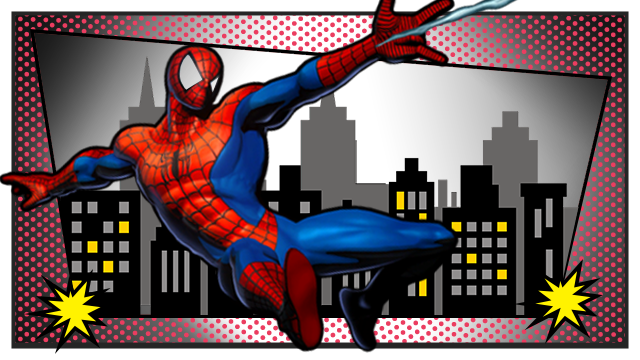
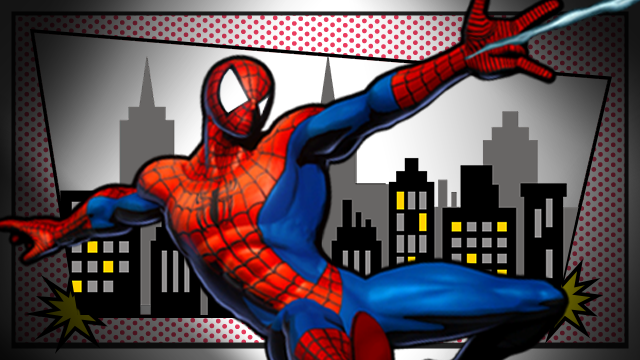
fixed webcam mirror w css

diff --git a/src/containers/Homepage.jsx b/src/containers/Homepage.jsx
@@ -6,22 +6,22 @@ import '../css/homepage.css'
 import '../images/lense.png'
  
 
-const Homepage = ({username}) => {
+const Homepage = ({full_name}) => {
 
 
 	
 	return (
 		<div className="hp-wrapper">
-			<h3 id="username">Welcome {username} to</h3>
+			<h3 id="username">Welcome {full_name} to</h3>
 			<br></br>
 			<h1 id="title">React</h1>
 			<br></br>
 			<h1 id="name" >Booth</h1>
 			<div className="row">
-			<a className="waves-effect waves-light btn blue-grey darken-2" href="/gallery" style={{marginLeft: "20px"}} ><i className="material-icons left">photo_library</i>Gallery</a>
+			<a id="button-image" className="waves-effect waves-light btn blue-grey darken-2" href="/gallery" style={{marginLeft: "20px"}} ><i className="material-icons left">photo_library</i>Gallery</a>
 			</div>
 			<div className="row">
-			<a className="waves-effect waves-light btn  black" href="/photobooth"><i className="material-icons left">camera_roll</i>Take photos</a>
+			<a id="gallery-button"className="waves-effect waves-light btn  black" href="/photobooth"><i className="material-icons left">camera_roll</i>Take photos</a>
 			</div>
 		</div>
 	)

diff --git a/src/components/SubmitRender.js b/src/components/SubmitRender.js
@@ -77,19 +77,19 @@ class SubmitRender extends React.Component {
 			
 				<div className="captureFrame" >
 					<div className="image1">
-						<img id="image1" alt="image1" src={imageData[0]}/>
+						<img id="image1" className="rotate" alt="image1" src={imageData[0]}/>
 						<img id="frame1" alt="frame1" src={frame[0]} />
 					</div>
 					<div className="image2">
-						 <img id="image2" alt="image2" src={imageData[1]}/>
+						 <img id="image2" className="rotate" alt="image2" src={imageData[1]}/>
 						 <img id="frame2" alt="frame2" src={frame[1]} />
 					</div>
 					<div className="image3">
-						 <img id="image3" alt="image3" src={imageData[2]}/>
+						 <img id="image3" className="rotate" alt="image3" src={imageData[2]}/>
 						 <img id="frame3" alt="frame3" src={frame[2]} />
 					</div>
 					<div className="image4">
-						 <img id="image4" alt="image4" src={imageData[3]}/>
+						 <img id="image4" className="rotate" alt="image4" src={imageData[3]}/>
 						 <img id="frame4" alt="frame4" src={frame[3]} />
 					</div>
 					</div>

diff --git a/src/css/homepage.css b/src/css/homepage.css
@@ -25,7 +25,7 @@
 	font-family: 'PIROU';
 	color: rgb(85, 85, 85);
 	text-align: center;
-	top: 25%;
+	top: 40%;
 	margin-left: 42%;
 	position: absolute;
 	font-size: 100px;
@@ -36,7 +36,7 @@
 	font-family: 'Josefin Slab';
 	font-style: serif;
 	font-weight: 'light';
-	top: 37%;
+	top: 55%;
 	left: 45%;
 	position: absolute;
 	font-size: 70px;
@@ -49,20 +49,20 @@
 	font-family: 'Josefin Slab';
 	font-style: serif;
 	font-weight: 'light';
-	top: 20%;
+	top: 32%;
 	left: 38%;
 	position: absolute;
 	font-size: 50px;
 }
 
 #button-image {
-	top: 60%;
+	top: 70%;
 	left: 52rem;
 	position: absolute;
 }
 
 #gallery-button {
-	top: 60%;
-	left: 68rem;
+	top: 70%;
+	left: 65rem;
 	position: absolute;
 }

diff --git a/src/css/photoTake.css b/src/css/photoTake.css
@@ -6,11 +6,12 @@ height: 100vh;
 }
 
 .photobooth-container {
-    background-color: rgba(0,0,0);
+    /* background-color: rgba(0,0,0); */
     position: relative;
     width: 100%;
     min-height: 100vh;
     z-index: 10;
+    transform: rotateY(180deg);
 }
 
 
@@ -26,7 +27,8 @@ height: 100vh;
 	color: red;
 	background-color: rgba(0,0,0,0.5);
 	font-size: 72px;
-	z-index: 20;
+    z-index: 20;
+    transform: rotateY(180deg);
 }
 
 #button-div{ 
@@ -57,6 +59,9 @@ height: 100vh;
     bottom: 0px;
     left: 0px;
     z-index: 10;
+    border-style: solid;
+    border-width: 5px;
+    transform: rotateY(180deg);
 }
 
 

diff --git a/src/components/Gallery.jsx b/src/components/Gallery.jsx
@@ -46,11 +46,20 @@ class Gallery extends React.Component {
 
 		return (
 			<>
-			<div id="background">
+				{/* <div className="grid">
+					<div className="grid-sizer">
+						<div className="grid-item grid-item--width2">
+						
+						
+						</div>
+					
+					</div>
+
+			</div> */}
 					
 			<a className="waves-effect waves-light btn black" href="/homepage"><i class="material-icons left">cloud</i>Homepage</a>
 			{this.renderOneImage()}
-			</div>
+			
 		</>);
 	}
 }

diff --git a/src/css/gallery.css b/src/css/gallery.css
@@ -8,18 +8,12 @@
 	padding: 20px;
 }
 
-
-
 .image-container:hover {
 	box-shadow: 0 8px 16px 0 rgba(0,0,0,0.2);
   }
 
-  #background {
-	position: relative;
-    overflow: hidden;
-    background: url('../images/kelly-sikkema-273133-unsplash.jpg') center center no-repeat;
-    background-size: cover;
-    /* min-height: 1080px;; */
-	/* max-width: 1920px; */
-	z-index: 10;
+ 
+
+  .parallax-container {
+	  height: 100px;
   }

diff --git a/src/css/photoRender.css b/src/css/photoRender.css
@@ -3,13 +3,15 @@
 	width: 100%;
 	box-shadow: 0 4px 8px 0 rgba(0,0,0,0.2);
 	transition: 0.3s;
+	
 }
 
 .photo-container {
-	margin-left: 40px;
+margin-left: 40px;
 width: 464.63px;
 height: 261.34px;
 position: relative;
+transform: rotateY(180deg);
 }
 
 
@@ -18,6 +20,7 @@ position: relative;
     z-index: -10;
 	width: 100%;
 	top: 0;
+	transform: rotateY(180deg);
 	/* margin-top: 6.2px; */
 }
 

diff --git a/src/css/submitRender.css b/src/css/submitRender.css
@@ -38,14 +38,16 @@
     /* height: 480px; */
 }
 
-
+.rotate {
+    transform: rotateY(180deg);
+}
 
 .image1 img {
     top: 0;
- 
     position: absolute;
     height: 270px;
     width: 480px;
+    
 }
 
 .image2 img {
